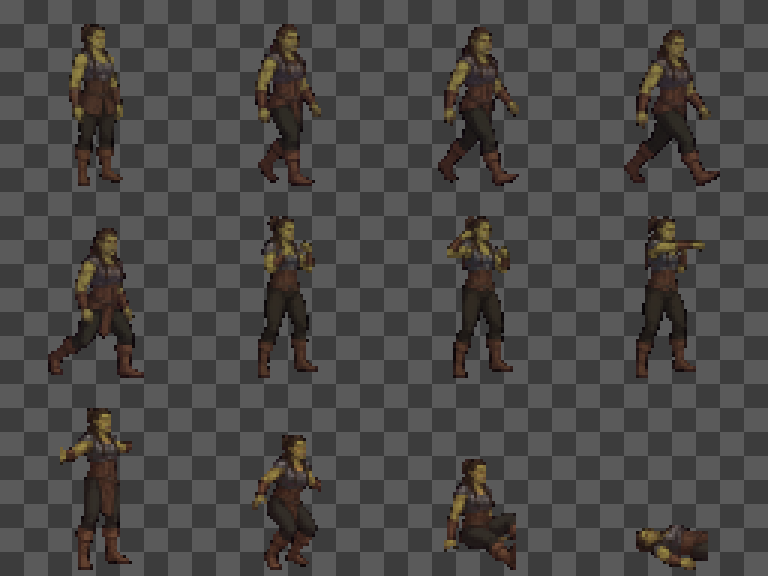
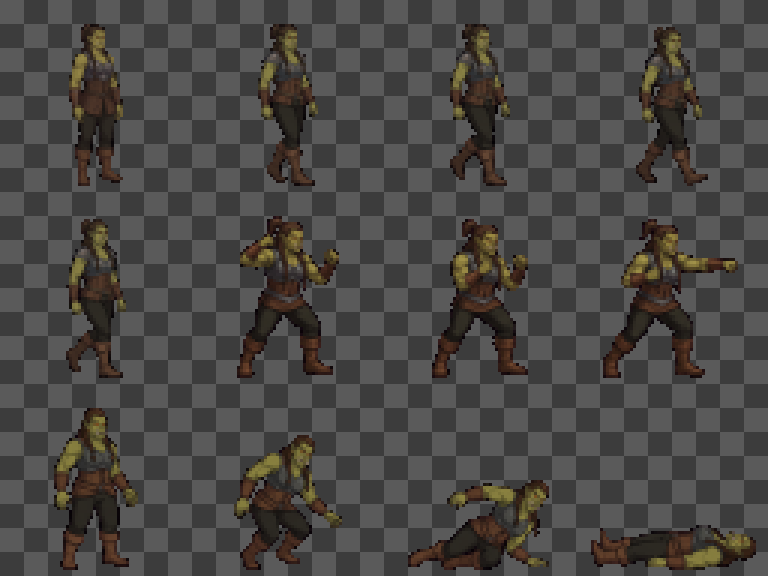
feat(units): орк-женщина перегенерирована, плейсхолдер hero_dummy убран
Игрок проверил в игре: «орчика хорошо сделана». Визуальный гейт §9.3 закрыт.

Полосы заново на nano-banana-2.1 ($0.18), замер каждой фигуры — не на глаз:

| полоса | было | стало |
|---|---|---|
| ходьба | 8 фигур в две строки, ширины монотонно 313-395-458-461 | 4 в ряд, толщина 0.36-0.45, поля от 50 px |
| удар | панели 3 и 4 наложены на 39 px | 4 чистые фазы, поля от 35 px |
| смерть | панель #1 L=0, #4 R=0, сидит w/h 1.57 | поля 12 px, лежит плашмя w/h 3.68, 4-й кадр отзеркален |

Стойка оставлена прежней — единственная полоса набора, которая была чистой.
Пересобраны 11 кадров из 12; полная пересборка набора даёт побайтово те же
байты дважды подряд.

units_db.json: удалён monsters/hero_dummy — алиас на арт героя с palette 5,
не используемый с 15.10, когда пул Серых наполнили настоящими наборами.
Правка текстовым вырезанием блока: 36 строк удалено, ни одной добавленной,
остальные 53 ключа не тронуты.

Журнал §12 и шапка обновлены: что сделано, что не сделано и почему.

diff --git a/AGENTS.md b/AGENTS.md
@@ -4,7 +4,7 @@
 Агент обязан прочитать файл целиком перед любыми изменениями; человек правит его по ходу развития проекта.
 
 > Правило: при каждом заметном шаге (фича/фикс/решение) — обновляй «Журнал сессий» (раздел 12).
-> Последнее обновление: 16.10 — **смерть орка-мужчины починена:** промт смерти усилен (`lying FLAT`, запрет сидеть), квота Gemini обойдена через второй провайдер (Google Vertex), `extract_hero_nb.py` умеет перерезать один блок (`--only`/`--strip`). Принятый побочный эффект: в момент смерти у орка исчезает кирас. **В ИГРЕ НЕ ПРОВЕРЕНО.**
+> Последнее обновление: 17.10 — **орк-женщина доделана и проверена игроком в игре** («хорошо сделана»): промты впервые объявляют, что это спрайт-лист для 2D-игры, и требуют поле от края кадра; новый инструмент `tests/measure_strip_figures.py` меряет каждую фигуру полосы, а не полосу; нарезчик выбирает строку по линии стоп и предупреждает об обрезанных и слипшихся фигурах; последний кадр смерти зеркалится, если он противоречит направлению падения. **Призрак — решение игрока: оставить (крылатый) как есть.** Долги: люди не воспроизводятся из своих полос, суккуб не добит.
 > 14.10 (вечер): **воительница** — тот же конвейер, 4 полосы Gemini 3.1 Flash ($0.41), 12 кадров `hero/war_women`, пол героя выбирает набор; попутно починен латентный баг нарезки (медиана считалась один раз до цикла).
 
 ## Содержание
@@ -538,7 +538,149 @@ COLOR = mix(tex[tid], tex[nid], m) * COLOR.a
 
 ## 12. Журнал сессий
 
-Хронология изменений. **Ное — сверху.**
+Хронология изменений. **Новое — сверху.**
+
+### 17.10 — орк-женщина доделана, а инструменты перестали врать молча
+
+Ветка: `master`. **Игрок проверил в игре: «орчика хорошо сделана». Смерть проверил
+отдельно: «все хорошо». Призрак — решение игрока: оставить как есть. Коммит не
+сделан, ждёт согласования ветки.**
+
+Игрок: «давай дальше сам, ходьба, удар и батч по игре». Требование к промтам:
+объявить, что это спрайт-лист для игры (иначе ИИ сливает фазы), и проверять
+результат **и по размеру, и по содержимому** — иначе обрезанная фаза обнаружи-
+вается через месяц.
+
+#### Промт никогда не объявлял назначение
+
+`grep sprite ?sheet|game asset|2D game` по `gen_hero_strip.py` и
+`gen_monster_strip.py` — **ноль совпадений**. Модели не сообщали, что рисунок
+пойдёт в игру покадрово. Добавлено в `LAYOUT`/`LAYOUT4`:
+
+- назначение и метафора киноплёнки («each panel is a SEPARATE ANIMATION
+  FRAME… like frames on a film strip»);
+- запрет сливать фазы (ghosting, double images, motion blur, общая конечность);
+- **поле от края кадра** ≥30 px со всех сторон: фигура у края будет срезана;
+- `COUNT IS LAW`: ровно 4 фигуры, не рисовать одну последовательность дважды,
+  второй строки нет;
+- `SIZE IS LAW`: фигура не больше 22% ширины и 60% высоты кадра.
+
+#### Геометрия раскладки была невыполнима — и это измеримо
+
+Первая же полоса после правок вернула **7 фигур в две строки**. Причина посчитана,
+а не угадана: сумма ширин четырёх панелей 2434 px плюс требуемые 3×150 px
+зазоров = **2884 px при холсте 2528 px**. Раскладка физически не помещалась,
+модель «решала» противоречие второй строкой. Отсюда зазор 150→80 px и правило
+ширины. После этого ходьба орк-женщины вернулась **4 в ряд** с первого раза.
+
+#### `measure_strip_figures.py` — замер каждой фигуры, а не полосы
+
+**Новый инструмент.** `preflight` меряет полосу целиком и не видит: обрезку краем,
+разложение панели в две строки, слипшиеся соседние фигуры. Ровно эти три класса
+проходили зелёным. Замер идёт **продовым путём** (`bg_ref`+`cut_mask`+
+`row_band` из `extract_hero_nb.py`), а не по маженте: на `hero_die_nb5.png` фон
+розовый, и замер по маженте считает фон фигурой (выходила одна компонента
+2528×1696).
+
+Что он ловит: поля до четырёх краёв, число строк, лишние компоненты, зазоры ≤0
+(слипание), линию ног, ширину ≥1.6× медианы (две слипшиеся фигуры).
+
+Найденные им дефекты:
+
+| полоса | было | стало |
+|---|---|---|
+| `hero_die_oc2` (старая) | панель #1 **L=0**, #4 **R=0**, поза сидячая w/h 1.57 | 12 px и 15 px, w/h **3.68** |
+| `hero_walk_oc2` (старая) | **8 фигур в две строки** | 4 в ряд |
+| `succubus_attack_nb1` | 3 компоненты, вторая **1185 px против медианы 540** | — (долг) |
+
+#### Нарезчик больше не отбрасывает молча
+
+`extract_hero_nb.py`:
+- **выбор строки по линии стоп** (`rows_of`, `ROW_TOL=50`). Раньше `boxes[:expect]`
+  при сортировке «сверху вниз, слева направо» отдавал 3 панели из верхней строки и
+  1 из нижней. Признак строки — общий НИЗ фигур: в падении верх уезжает, низ
+  остаётся на земле (у четырёх панелей орк-женщины низ 1682/1674/1670/1672).
+  Первая версия группировала по вертикальному перекрытию и **сломалась**:
+  порог рос вместе с высотой строки, и панель 219 px против 791 px отваливалась
+  в отдельную «строку»;
+- **ВНИМАНИЕ при лишних компонентах** с перечислением каждой отброшенной;
+- **ВНИМАНИЕ «фигура у края кадра — кадр срезан»** (`EDGE_MIN=3`);
+- **`--dry-run`**: считает кадры и сравнивает с диском, **ничего не записывая**.
+
+#### Зеркало последнего кадра смерти — по измерению, а не на глаз
+
+Игрок заметил: «фаза 4 надо зеркалировать, лежит не в том направлении куда
+падала». Проверено числом — смещение головы относительно стоп, в долях ширины
+фигуры (`head_feet_offset`):
+
+| | 1 | 2 | 3 | 4 |
+|---|---|---|---|---|
+| было | +0.029 | +0.105 | +0.235 | **−0.151** |
+| стало | +0.030 | +0.249 | +0.261 | **+0.102** |
+
+Три панели падали вперёд с нарастающим наклоном, четвёртая показывала падение
+назад — полоса противоречила сама себе. Зеркалится **по правилу**, а не
+захардкожено под панель 4: если ранние панели падают в одну сторону, а последняя
+в другую — зеркалим. На принятом `orc_men` правило молчит (−0.009 +0.190 +0.068
++0.015), на полосе орк-женщины срабатывает.
+
+**Про «зигзагообразный рез» игрока:** гипотеза не подтвердилась и проверена —
+разливка по меткам даёт 7 **непересекающихся** компонент, метки эксклюзивны,
+две фигуры физически не могут делить пиксель. Зигзаг не нужен, компоненты
+разделят их точно. Настоящая беда была в выборе набора кадров (п. выше), а не в
+резе.
+
+#### Генератор зверьми и нарезка не стыковались
+
+`gen_monster_strip.py` писал `*_m1.png`, `extract_monster_nb.py` читал
+`*_nb1.png` — сгенерированное **никогда не подхватывалось автоматически**;
+работало только потому, что 15.10 файлы переименовали руками. Имя исправлено на
+`_nb1` (коммитированное, от него зависит нарезка).
+
+#### Долг, который НЕ закрыт: люди не воспроизводятся из своих полос
+
+`--dry-run` честно показывает: пересборка блока dying у `hero/war_men` и
+`hero/war_women` **изменила бы все 4 кадра**. Закоммиченные кадры нарезаны
+версией инструмента до `MAX_W`. Проверено строго: с правками откачены через
+`git stash` — расхождение осталось, то есть оно не моё.
+
+**Следствие, правило:** слепой пересборкой (`extract_hero_nb.py` без `--strip`)
+одобренный игроком арт затирается. Я на этом попался **дважды** за сессию и
+оба раза откатывал `git checkout`. Отсюда `--dry-run` и правило: сначала
+`--dry-run`, потом запись.
+
+#### Что НЕ сделано и почему
+
+- **`monsters/succubus`** — не хватало полос `move` и `die`, и `attack` с браком
+  (3 компоненты, слипшаяся пара 1185 px против медианы 540). Три полосы израсходованы
+  ($0.16), все три вернули брак; модель отдаёт 2–3 фигуры. Остановлено.
+- **`monsters/ghost`** — призрак отращивает крылья, нужен вид `hover`. Строки
+  `NO WINGS` и отдельное падение без крыльев в промте уже были (15.10). Стоило
+  $0.36 на 7 попыток: `stand` вышел без крыльев, но **это белый пушистый
+  четвероногий зверь, а не призрак** — модель игнорирует описание целиком.
+  Значит дело не в раскладке, а в тексте описания. **Игрок, узнав про это:
+  «призрака не трогать — норм решение».** Игра не тронута: `import/Monsters/`
+  откачен на принятое, крылатый призрак остаётся. Возврат к долгу — отдельный
+  заход с новым промтом описания, не с правкой раскладки.
+
+#### Тесты
+
+`--import` чист · `--quit` без ошибок · `war_men_smoke` 180/0 ·
+`gray_density_smoke` 15/0 · `npc_spawn_smoke` 105/0 · `anim_contract_smoke` 78/0 ·
+`stale_units_smoke` 9/0 · `spawn_smoke` OK · `unit_physics_smoke` OK ·
+`equipment_combat_smoke` OK · `city_npc_art_smoke` 1025/0 ·
+`runtime_errors_smoke` 14 подходов, ошибок нет.
+
+`units_db.json`: удалён неиспользуемый плейсхолдер `monsters/hero_dummy`
+(алиас на `hero/war_men` с `palette: 5`), 54 → **53** ключа. Правка текстовым
+вырезанием блока: 36 строк удалено, ни одной добавленной, остальные ключи не
+тронуты.
+
+**Потрачено $0.76** (орк-женщина $0.18 · призрак $0.36 · суккуб $0.16).
+
+**Проверено игроком в игре:** новая игра → раса Орк → ходьба, удар и смерть.
+Вердикт: «хорошо сделана». Смерть проверена и раньше отдельным сообщением.
+Закрыт визуальный гейт §9.3 для арта.
 
 ### 16.10 — смерть орка: обошли квоту через второй провайдер, и три бага инструмента попутно
 
